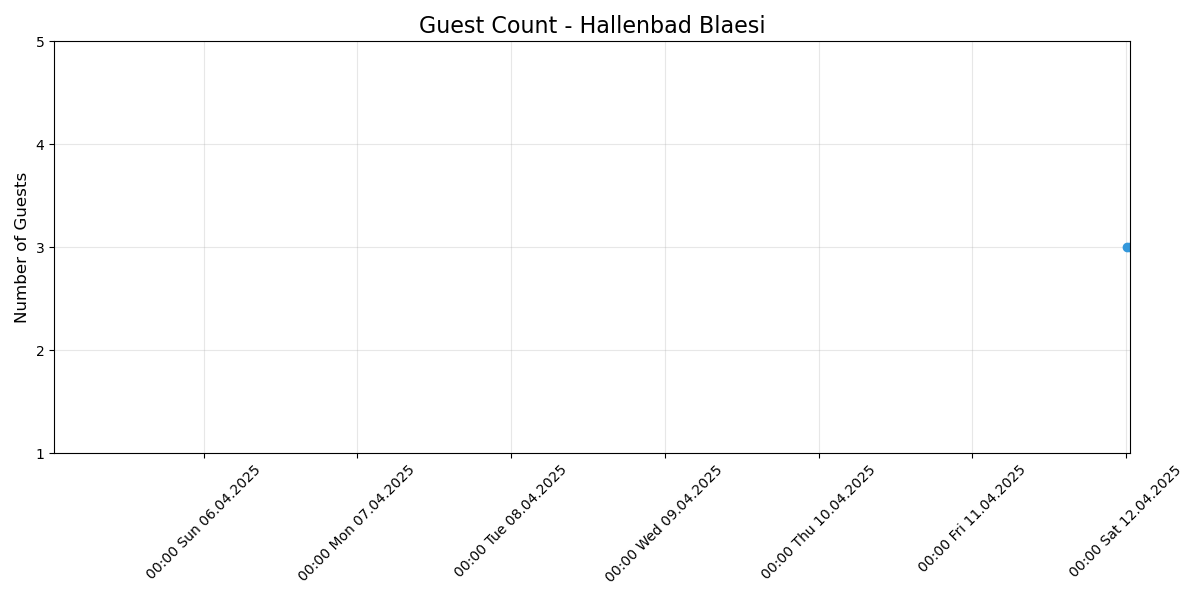
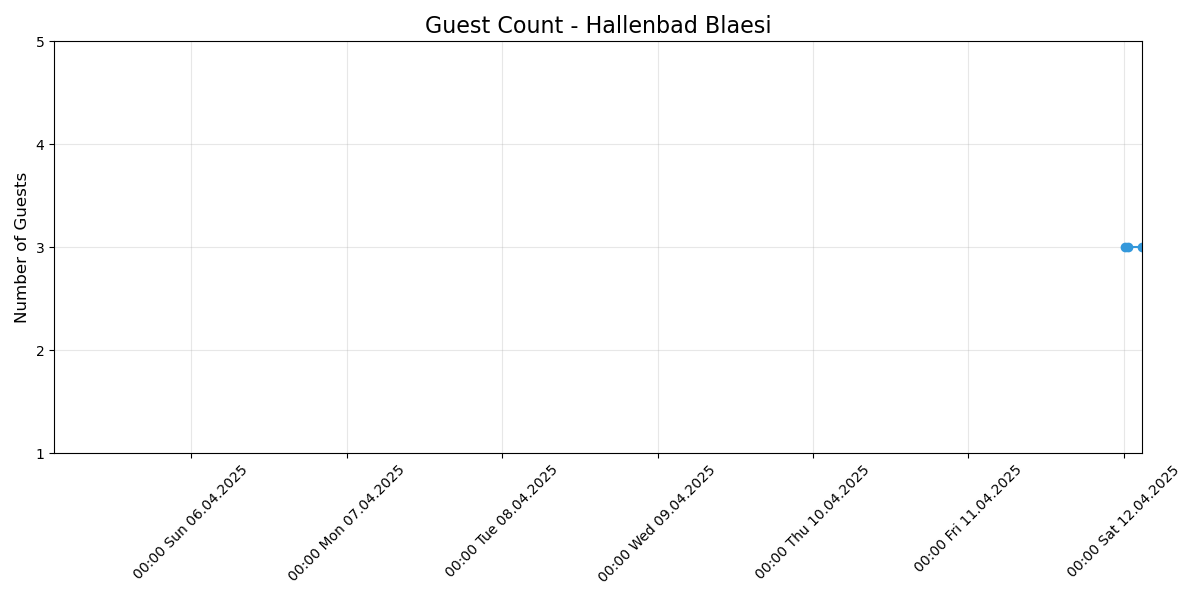
Update timezone to ZH and change schedule to 10 min

diff --git a/pool_scraper.py b/pool_scraper.py
@@ -4,7 +4,7 @@ import json
 import csv
 import os
 import time
-from datetime import datetime, timedelta
+from datetime import datetime, timezone, timedelta
 import logging
 import pandas as pd
 import matplotlib.pyplot as plt
@@ -60,7 +60,9 @@ async def scrape_guest_counts_async():
                                 results[pool_name] = count
                                 
                                 # Get current timestamp
-                                timestamp = datetime.now().strftime('%Y-%m-%d %H:%M:%S')
+                                zurich_tz = timezone(timedelta(hours=2))  # CET/CEST is UTC+2
+
+                                timestamp = datetime.now(zurich_tz).strftime('%Y-%m-%d %H:%M:%S')
                                 
                                 # Prepare CSV file path for this pool
                                 pool_filename = pool_name.lower().replace(' ', '_')
@@ -182,7 +184,7 @@ def generate_all_visualizations():
         generate_visualization(pool_name)
 
 # Main function with interval parameter for flexibility
-def main(interval_minutes=5, run_once=False):
+def main(interval_minutes=10, run_once=False):
     logging.info("Starting pool guest count scraper for multiple pools...")
     
     # Run immediately first time
@@ -209,7 +211,7 @@ if __name__ == "__main__":
     import argparse
     
     parser = argparse.ArgumentParser(description='Scrape pool guest count data for multiple pools')
-    parser.add_argument('--interval', type=int, default=5, help='Interval in minutes between scrapes')
+    parser.add_argument('--interval', type=int, default=10, help='Interval in minutes between scrapes')
     parser.add_argument('--once', action='store_true', help='Run only once and exit')
     parser.add_argument('--visualize-only', action='store_true', help='Only generate visualizations from existing data')
     

diff --git a/README.md b/README.md
@@ -13,11 +13,11 @@ This project scrapes the number of current guests at three swimming pools in Zur
 ### [Hallenbad Bläsi](https://www.stadt-zuerich.ch/de/stadtleben/sport-und-erholung/sport-und-badeanlagen/hallenbaeder/blaesi.html)
 ![Hallenbad Bläsi Guest Count](data/hallenbad_blaesi_visualization.png)
 
-The charts above show the number of guests at each pool over the past 7 days. Data is updated every 5 minutes.
+The charts above show the number of guests at each pool over the past 7 days. Data is updated every 10 minutes.
 
 ## Features
 
-- Scrapes the current guest count of multiple pools every 5 minutes
+- Scrapes the current guest count of multiple pools every 10 minutes
 - Saves data to separate CSV files with timestamps
 - Generates visualizations of guest counts over time
 - Can be run locally or via GitHub Actions
@@ -60,7 +60,7 @@ python pool_scraper.py --visualize-only
 ### GitHub Actions Setup
 
 The repository includes a GitHub Actions workflow that:
-- Runs every 5 minutes using Conda (when schedule is enabled)
+- Runs every 10 minutes using Conda (when schedule is enabled)
 - Scrapes the data for all pools
 - Generates visualizations
 - Commits and pushes any changes to the repository
